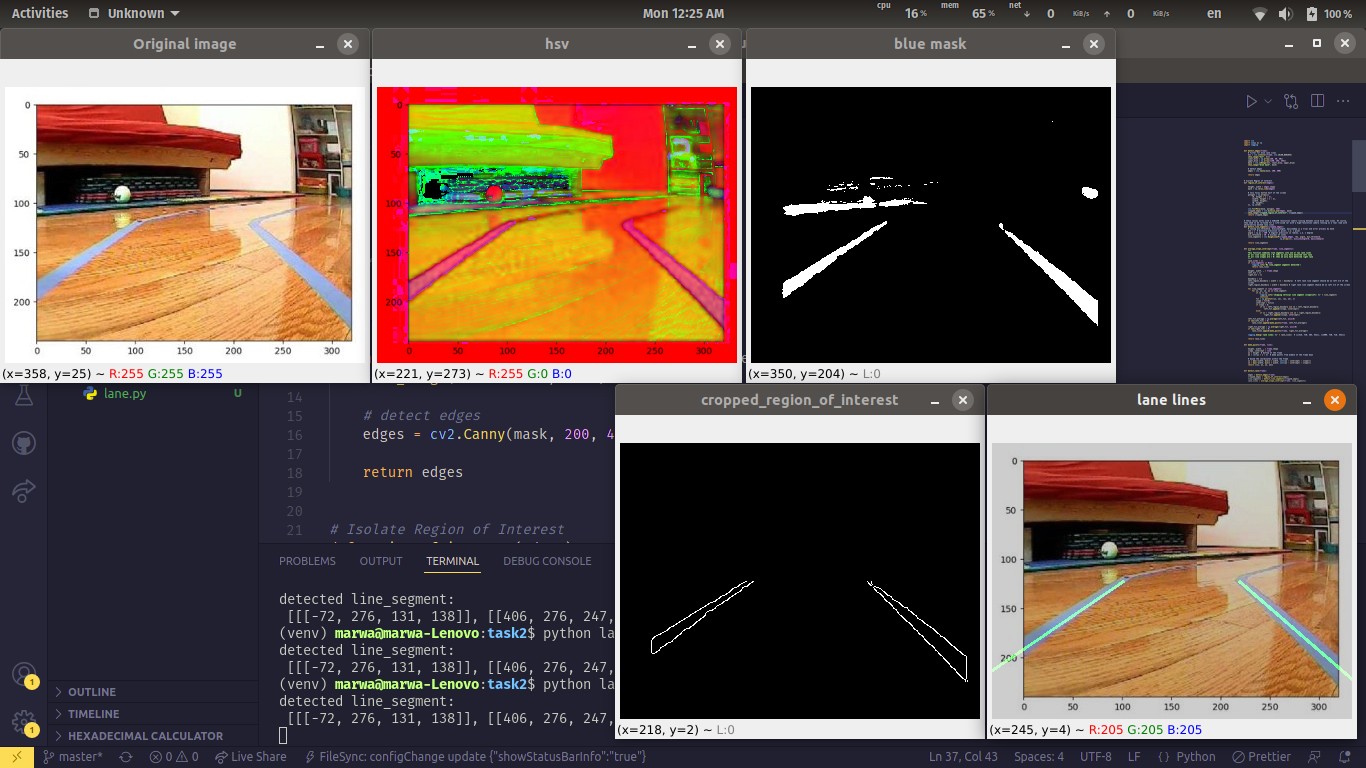
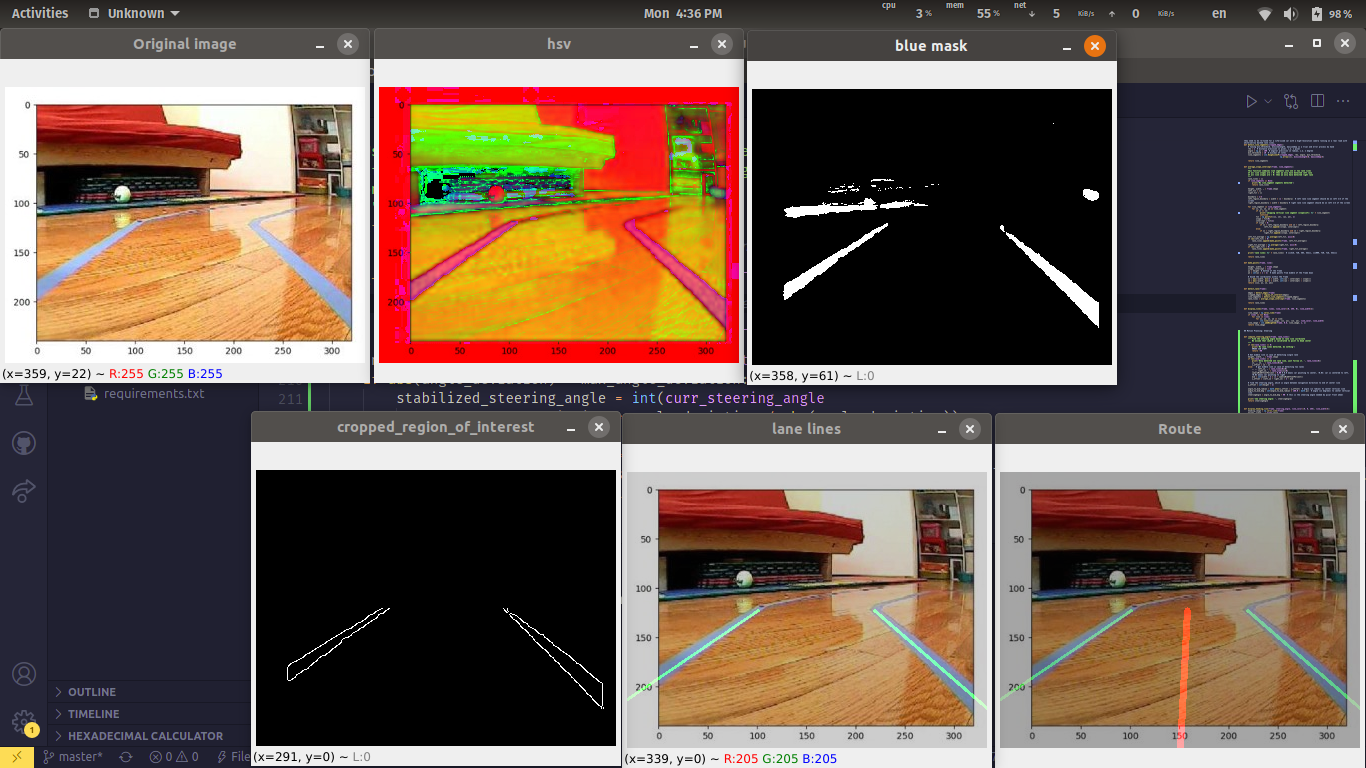
added steering angle

diff --git a/lib/utils.py b/lib/utils.py
@@ -1,8 +1,9 @@
 import cv2
 import numpy as np
-import logging
+import math
 
-
+## Lane detection
+ 
 def detect_edges(frame):
     # filter for blue lane lines
     hsv = cv2.cvtColor(frame, cv2.COLOR_BGR2HSV)
@@ -58,7 +59,7 @@ def average_slope_intercept(frame, line_segments):
     """
     lane_lines = []
     if line_segments is None:
-        logging.info('No line_segment segments detected')
+        print('No line_segment segments detected')
         return lane_lines
 
     height, width, _ = frame.shape
@@ -72,7 +73,7 @@ def average_slope_intercept(frame, line_segments):
     for line_segment in line_segments:
         for x1, y1, x2, y2 in line_segment:
             if x1 == x2:
-                logging.info('skipping vertical line segment (slope=inf): %s' % line_segment)
+                print('skipping vertical line segment (slope=inf): %s' % line_segment)
                 continue
             fit = np.polyfit((x1, x2), (y1, y2), 1)
             slope = fit[0]
@@ -92,7 +93,7 @@ def average_slope_intercept(frame, line_segments):
     if len(right_fit) > 0:
         lane_lines.append(make_points(frame, right_fit_average))
 
-    logging.debug('lane lines: %s' % lane_lines)  # [[[316, 720, 484, 432]], [[1009, 720, 718, 432]]]
+    print('lane lines: %s' % lane_lines)  # [[[316, 720, 484, 432]], [[1009, 720, 718, 432]]]
 
     return lane_lines
 
@@ -129,6 +130,90 @@ def display_lines(frame, lines, line_color=(0, 255, 0), line_width=2):
                 cv2.line(line_image, (x1, y1), (x2, y2), line_color, line_width)
     line_image = cv2.addWeighted(frame, 0.8, line_image, 1, 1)
     return line_image
+
+
+## Motion Planning: Steering
+
+
+def compute_steering_angle(frame, lane_lines):
+    """ Find the steering angle based on lane line coordinate
+        We assume that camera is calibrated to point to dead center
+    """
+    if len(lane_lines) == 0:
+        print('No lane lines detected, do nothing')
+        #MAKE CAR STOP?
+        return -90
+
+    # Get middle line in case of detecting single lane
+    height, width, _ = frame.shape
+    if len(lane_lines) == 1:
+        print('Only detected one lane line, just follow it. ', lane_lines[0])
+        x1, _, x2, _ = lane_lines[0][0]
+        x_offset = x2 - x1
+    else:   # get middle line in case of detecting two lanes
+        _, _, left_x2, _ = lane_lines[0][0]
+        _, _, right_x2, _ = lane_lines[1][0]
+        cameraMidOffsetPercent = 0.00 # 0.0 means car pointing to center, -0.03: car is centered to left, +0.03 means car pointing to right
+        mid = int(width / 2 * (1 + cameraMidOffsetPercent))
+        x_offset = (left_x2 + right_x2) / 2 - mid
+
+    # find the steering angle, which is angle between navigation direction to end of center line
+    y_offset = int(height / 2)
+
+    angle_to_mid_radian = math.atan(x_offset / y_offset)  # angle (in radian) to center vertical line
+    angle_to_mid_deg = int(angle_to_mid_radian * 180.0 / math.pi)  # angle (in degrees) to center vertical line
+    steeringAngle = angle_to_mid_deg + 90  # this is the steering angle needed by picar front wheel
+
+    print('new steering angle: ', steeringAngle)
+    return steeringAngle
+
+
+
+def display_heading_line(frame, steering_angle, line_color=(0, 0, 255), line_width=5):
+    heading_image = np.zeros_like(frame)
+    height, width, _ = frame.shape
+
+    # figure out the heading line from steering angle
+    # heading line (x1,y1) is always center bottom of the screen
+    # (x2, y2) requires a bit of trigonometry
+
+    # Note: the steering angle of:
+    # 0-89 degree: turn left
+    # 90 degree: going straight
+    # 91-180 degree: turn right 
+    steering_angle_radian = steering_angle / 180.0 * math.pi
+    x1 = int(width / 2)
+    y1 = height
+    x2 = int(x1 - height / 2 / math.tan(steering_angle_radian))
+    y2 = int(height / 2)
+
+    cv2.line(heading_image, (x1, y1), (x2, y2), line_color, line_width)
+    heading_image = cv2.addWeighted(frame, 0.8, heading_image, 1, 1)
+
+    return heading_image
+
+
+def stabilize_steering_angle(curr_steering_angle, new_steering_angle, num_of_lane_lines, max_angle_deviation_two_lines=5, max_angle_deviation_one_lane=1):
+    """
+    Using last steering angle to stabilize the steering angle
+    if new angle is too different from current angle, 
+    only turn by max_angle_deviation degrees
+    """
+    if num_of_lane_lines == 2 :
+        # if both lane lines detected, then we can deviate more
+        max_angle_deviation = max_angle_deviation_two_lines
+    else :
+        # if only one lane detected, don't deviate too much
+        max_angle_deviation = max_angle_deviation_one_lane
+    
+    angle_deviation = new_steering_angle - curr_steering_angle
+    if abs(angle_deviation) > max_angle_deviation:
+        stabilized_steering_angle = int(curr_steering_angle
+            + max_angle_deviation * angle_deviation / abs(angle_deviation))
+    else:
+        stabilized_steering_angle = new_steering_angle
+    print('Proposed angle: ', new_steering_angle, ', stabilized angle: ', stabilized_steering_angle)
+    return stabilized_steering_angle
 
 
 def show_image(window_name:str, image):

diff --git a/lane.py b/lane.py
@@ -1,5 +1,5 @@
 import cv2
-from lib.utils import detect_lane, show_image, display_lines
+from lib.utils import detect_lane, show_image, display_lines, compute_steering_angle, display_heading_line
 
 def main():
         
@@ -13,6 +13,12 @@ def main():
     print('detected line_segment: \n', lane_lines)
     
     show_image("lane lines", lane_lines_image)
+    
+    steeringAngle = compute_steering_angle(frame, lane_lines)
+    finalImage = display_heading_line(lane_lines_image, steeringAngle)
+    
+    print("Steering angle: ", steeringAngle)
+    show_image("Route", finalImage)
 
 if __name__ == '__main__':
     main()
